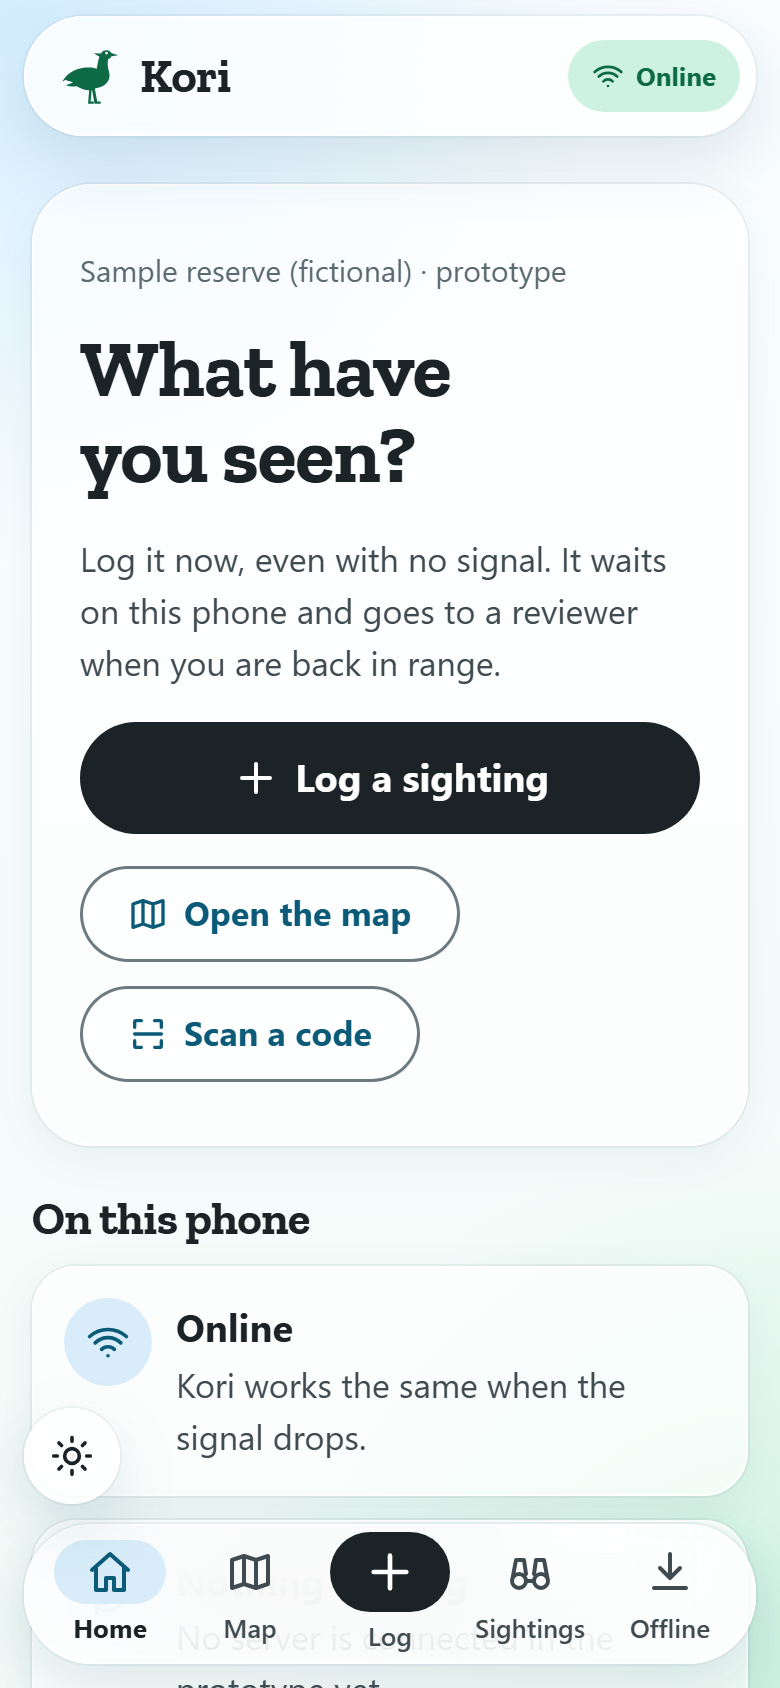
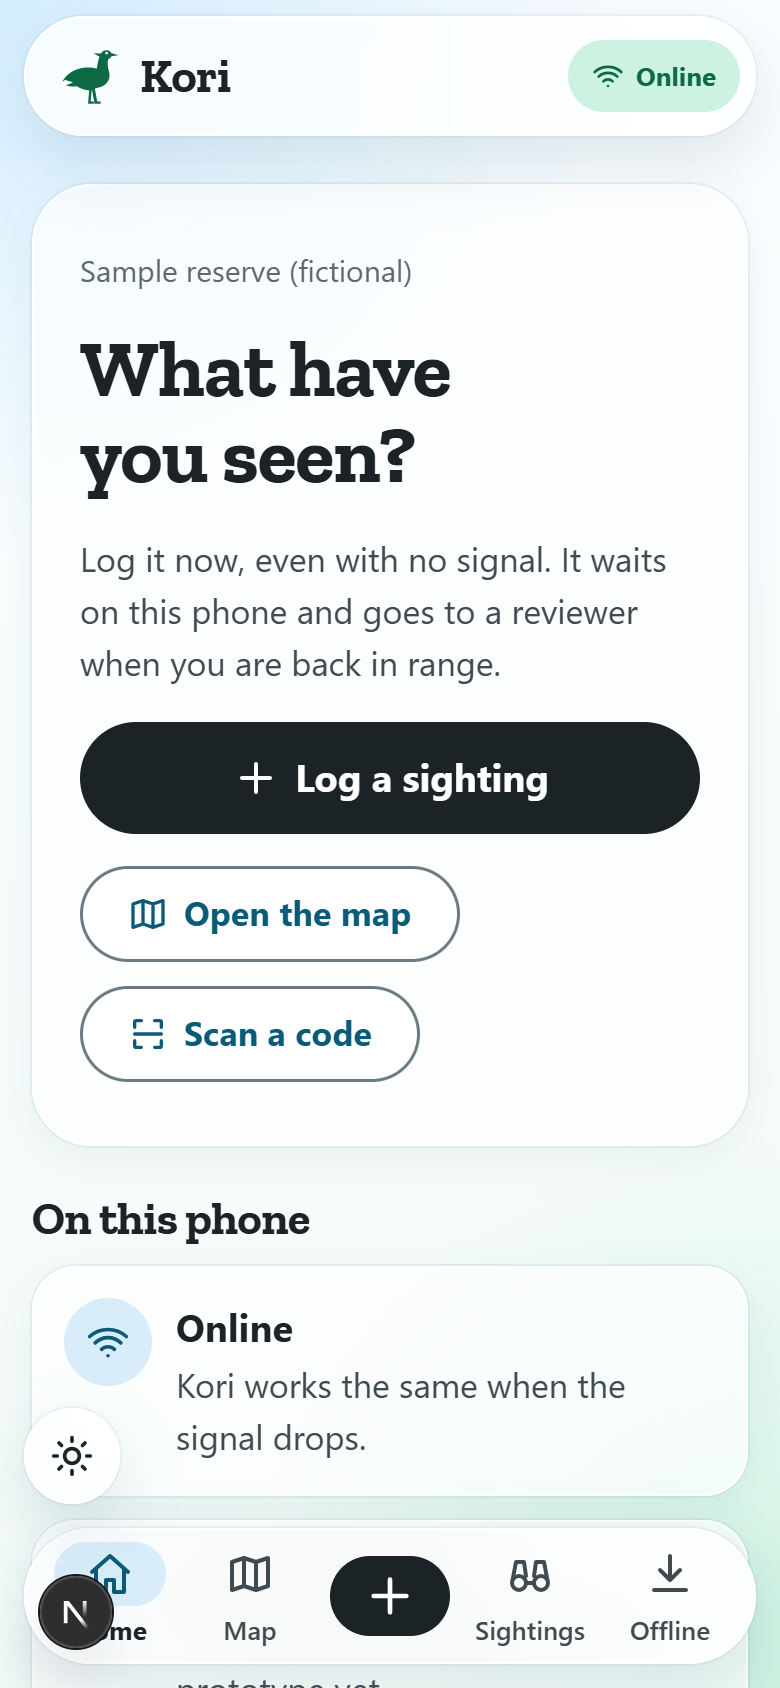
feat: make portfolio recruiter-first (#24)

diff --git a/src/data/projects.ts b/src/data/projects.ts
@@ -133,7 +133,7 @@ export const projects: Project[] = [
     story:
       'Kori began with two Botswana-specific constraints that ordinary map and social apps do not solve well: safari routes often lose mobile coverage, and publishing an animal’s exact live location can be unsafe. Named after the kori bustard, kgori in Setswana, it lets a visitor log a sighting on the phone, keep it there until a connection returns, and pass it to another phone with a QR code. Downloaded maps keep the basemap, position and routing available offline, while guidance follows mapped roads and tracks only. Every shared sighting is reviewed and delayed, normal species appear as a 1 km area, and sensitive species such as rhino and pangolin appear only as a 10 km area after 7 days and are never guided to.',
     evidence:
-      'Four web apps make up the front end: a phone-first field app, a landing site, a review console and API docs, written in Next.js and TypeScript. In the field app a sighting is saved in IndexedDB, photos are redrawn on the phone to strip hidden location data, and downloaded PMTiles packs are drawn locally with MapLibre. A private Savuti pack combines an OpenStreetMap vector basemap and routing graph with Sentinel-2 imagery; its satellite-first view, attribution, local storage, OSM-track routing and offline reload passed 16 of 16 automated checks. The published map preview uses real Sentinel-2 and OpenStreetMap context over Maun at the Okavango Delta gateway and contains no live wildlife locations. The private park pack and its screenshots remain off the web pending wildlife-authority guidance. The backend is a FastAPI and PostGIS service with Alembic migrations and scheduled lifecycle jobs. Authentication, object storage, Prometheus, Grafana, Tempo, OpenTelemetry, backups, recovery tooling, Docker Compose and GitHub Actions form the operating foundation. The backend is built and tested, but the apps do not call it yet.',
+      'Four web apps make up the front end: a phone-first field app, a landing site, a review console and API docs, written in Next.js and TypeScript. In the field app a sighting is saved in IndexedDB, photos are redrawn on the phone to strip hidden location data, and downloaded PMTiles packs are drawn locally with MapLibre. A private Savuti pack combines an OpenStreetMap vector basemap and routing graph with Sentinel-2 imagery; its satellite-first view, attribution, local storage, OSM-track routing and offline reload passed 16 of 16 automated checks. The private park pack and its screenshots remain off the web pending wildlife-authority guidance. The backend is a FastAPI and PostGIS service with Alembic migrations and scheduled lifecycle jobs. Authentication, object storage, Prometheus, Grafana, Tempo, OpenTelemetry, backups, recovery tooling, Docker Compose and GitHub Actions form the operating foundation. The backend is built and tested, but the apps do not call it yet.',
     stack: stackOf(koriStack),
     stackGroups: koriStack,
     tags: ['mobile'],
@@ -142,9 +142,10 @@ export const projects: Project[] = [
     frame: 'bare',
     theme: { from: '#0b3a52', to: '#146c2e', glow: '#9fe3c4' },
     shots: [
-      { file: 'map', alt: 'Kori map preview showing real Sentinel-2 imagery and OpenStreetMap labels over Maun at the Okavango Delta gateway, with a highlighted route, offline packs, track-based guidance and location privacy', caption: 'Maun and the Okavango Delta gateway: satellite imagery, OSM labels and track-based routing', w: 1400, h: 1041 },
-      { file: 'home', alt: 'The Kori field app home screen on a wide display, with shortcuts to log a sighting, open the map, scan a shared sighting and see what is stored on the phone', caption: 'Field app: offline status and the sighting workflow', w: 1000, h: 625 },
-      { file: 'log', alt: 'The Kori phone form for logging a sighting, beginning with a searchable grid of Botswana wildlife species', caption: 'Logging a sighting on the phone, saved locally first', w: 585, h: 1266 },
+      { file: 'flow', alt: 'Three iPhone frames showing Kori home, log-a-sighting and sightings-list screens', caption: 'The offline field flow: start, log, and review sightings', w: 1400, h: 1041 },
+      { file: 'home-phone', alt: 'Kori home screen in an iPhone frame, with offline status and actions to log, open the map or scan a code', caption: 'Home: the field workflow starts on the phone', w: 600, h: 1293 },
+      { file: 'log-phone', alt: 'Kori log-a-sighting screen in an iPhone frame with a searchable species list', caption: 'Log a sighting, saved locally first', w: 600, h: 1293 },
+      { file: 'sightings-phone', alt: 'Kori sightings screen in an iPhone frame showing reviewed sightings as areas rather than exact points', caption: 'Reviewed sightings are shown as areas, never exact points', w: 600, h: 1293 },
     ],
   },
   {
@@ -174,6 +175,7 @@ export const projects: Project[] = [
       { file: 'import', alt: 'Tagwise’s spreadsheet import, with the rows that have problems marked before anything is written', caption: 'Importing a spreadsheet, problems shown first (sample data)', w: 1420, h: 999 },
       { file: 'sites', alt: 'Tagwise’s sites page: six places on a map of Botswana, with a list beside it', caption: 'Sites on a map (sample data)', w: 1420, h: 999 },
       { file: 'phone', alt: 'Tagwise’s home page on a phone, in an iPhone frame', caption: 'The same app on a phone (sample workspace)', w: 600, h: 1293 },
+      { file: 'phone-register', alt: 'Tagwise’s asset register on a phone, in an iPhone frame', caption: 'The register on a phone (sample workspace)', w: 600, h: 1293 },
     ],
   },
   {
@@ -222,10 +224,10 @@ export const projects: Project[] = [
     theme: { from: '#06241c', to: '#0f7a55', glow: '#5eead4' },
     mark: 'CS',
     shots: [
-      { file: 'home', alt: 'The University CS Docs home page with course cards for data structures, discrete maths, functional programming and calculus', caption: 'Home', w: 1440, h: 900 },
-      { file: 'course', alt: 'The CSI247 Data Structures course overview with a study sequence', caption: 'A course overview', w: 1440, h: 900 },
-      { file: 'semester', alt: 'The Semester III overview listing core courses and an elective', caption: 'Semester overview', w: 1440, h: 900 },
-      { file: 'focus-timer', alt: 'The Pomodoro focus timer page', caption: 'Focus timer', w: 1440, h: 900 },
+      { file: 'functional-overview', alt: 'The CSI243 Functional Programming course overview with its chapter sequence and study tools', caption: 'CSI243 Functional Programming course overview', w: 1440, h: 900 },
+      { file: 'functional-thinking', alt: 'A Functional Thinking lesson with navigation, explanation and a Haskell code example', caption: 'Structured notes with worked Haskell examples', w: 1440, h: 900 },
+      { file: 'haskell-playground', alt: 'The browser-based Haskell playground with editable code and an output panel', caption: 'Haskell runs directly in the browser', w: 1440, h: 900 },
+      { file: 'functional-review', alt: 'The Functional Programming review page with flashcards and a chapter assessment', caption: 'Review with flashcards and assessment', w: 1440, h: 900 },
     ],
   },
 ];

diff --git a/src/scripts/desktop.ts b/src/scripts/desktop.ts
@@ -1,8 +1,8 @@
 import { projects } from '@/data/projects';
 import { initAppUi } from './appui';
 import { initDock } from './dock';
-import { initFinder, openProject } from './finder';
-import { isApple, isCompact, modKey } from './lib';
+import { initFinder } from './finder';
+import { isApple, modKey } from './lib';
 import { initMenus } from './menus';
 import { notify } from './notify';
 import { initQuickLook } from './quicklook';
@@ -10,50 +10,25 @@ import { initSpotlight } from './spotlight';
 import { initStatusBar } from './statusbar';
 import { initTerminal } from './terminal';
 import { initTheme } from './theme';
-import { getWindowRect, initWindows, MENUBAR_H, openApp } from './windows';
+import { initWindows, openApp } from './windows';
 
-/** Lay the first windows out to suit the screen: a pair on wide desktops, one everywhere else. */
+/** Start with the professional summary and CV so a recruiter does not need to search for context. */
 function openFirstWindows(): void {
-  const width = innerWidth;
-  const height = innerHeight;
-
-  if (isCompact()) {
-    openApp('finder');
-    return;
-  }
-
-  const iconColumn = 130;
-  const usable = width - iconColumn;
-  const winHeight = Math.max(380, Math.min(560, height - MENUBAR_H - 130));
-  const y = MENUBAR_H + Math.max(20, Math.round((height - MENUBAR_H - 96 - winHeight) / 2));
-
-  if (usable >= 1100) {
-    const contactsWidth = 350;
-    const gap = 22;
-    const finderWidth = Math.min(920, usable - contactsWidth - gap - 64);
-    const x = Math.round((usable - (contactsWidth + gap + finderWidth)) / 2) + 6;
-    // The About card sizes itself to its content; the gallery then matches its height.
-    openApp('contacts', { rect: { x, y, w: contactsWidth, h: winHeight } });
-    const cardHeight = getWindowRect('contacts')?.h ?? winHeight;
-    openApp('finder', { rect: { x: x + contactsWidth + gap, y, w: finderWidth, h: cardHeight } });
-  } else {
-    const finderWidth = Math.min(900, usable - 24);
-    openApp('finder', { rect: { x: Math.round((usable - finderWidth) / 2), y, w: finderWidth, h: winHeight } });
-  }
+  openApp('about');
 }
 
 function welcome(): void {
   const hint = document.createElement('span');
-  hint.append(`${projects.length} projects in the gallery. Click to explore, or press `);
+  hint.append(`CV, technical toolkit, and ${projects.length} selected projects. Press `);
   const key = document.createElement('kbd');
   key.textContent = isApple ? '⌘K' : `${modKey}K`.trim();
-  hint.append(key, ' to search.');
+  hint.append(key, ' to search the portfolio.');
   notify({
     title: 'Welcome',
     body: hint,
-    icon: 'finder',
-    timeout: 9000,
-    onClick: () => openProject(projects[0]?.slug ?? ''),
+    icon: 'contacts',
+    timeout: 7000,
+    onClick: () => openApp('about'),
   });
 }
 

diff --git a/src/data/site.ts b/src/data/site.ts
@@ -9,10 +9,10 @@ export const profile = {
   github: 'https://github.com/MooketsiMagwaza',
   githubHandle: 'MooketsiMagwaza',
   sourceRepo: 'https://github.com/MooketsiMagwaza/portfolio',
-  headline: 'I make complicated software feel simple.',
+  headline: 'Full-stack engineering across product, backend, data, and delivery.',
   intro:
-    'I’m Mooketsi. I turn messy, real-world problems into tools people can actually use—from the screen they tap to the systems working behind it.',
-  focus: ['Product thinking', 'Systems engineering', 'Operational clarity'],
+    'I build product interfaces, backend services, data systems, and deployment tooling, with recent work in offline geospatial software, inventory and expiry tracking, and Windows desktop applications.',
+  focus: ['Product systems', 'Backend engineering', 'Platform delivery'],
   invitation:
     'I’m always happy to talk about a thoughtful product, a stubborn systems problem, or work that genuinely helps people.',
 } as const;
@@ -56,11 +56,12 @@ export const principles: Principle[] = [
 
 /** The "Technical toolkit" from the GitHub profile README. */
 export const stackGroups: { label: string; items: string[] }[] = [
-  { label: 'Backend', items: ['Rust', 'Axum', 'Python', 'FastAPI', 'Go', 'Java', 'REST APIs'] },
-  { label: 'Web', items: ['TypeScript', 'React', 'Next.js', 'Vite', 'Accessible responsive UI'] },
+  { label: 'Languages', items: ['TypeScript', 'JavaScript', 'Rust', 'Python', 'SQL', 'Go', 'Java'] },
+  { label: 'Frontend', items: ['React', 'Next.js', 'Vite', 'Responsive UI', 'Accessibility', 'IndexedDB'] },
+  { label: 'Backend', items: ['Axum', 'FastAPI', 'REST APIs', 'Authentication', 'Background jobs'] },
   { label: 'Data', items: ['PostgreSQL', 'PostGIS', 'pgRouting', 'Redis', 'SQLAlchemy', 'sqlx', 'Alembic'] },
-  { label: 'Operations', items: ['Docker', 'nginx', 'GitHub Actions', 'Prometheus', 'Grafana', 'Tempo', 'OpenTelemetry'] },
-  { label: 'Native', items: ['Tauri 2', 'Rust', 'Windows APIs', 'WebView2'] },
+  { label: 'DevOps & observability', items: ['Docker', 'nginx', 'GitHub Actions', 'OpenTelemetry', 'Prometheus', 'Grafana', 'Tempo'] },
+  { label: 'Native & geospatial', items: ['Tauri 2', 'Windows APIs', 'WebView2', 'MapLibre', 'PMTiles'] },
 ];
 
 /** Where the desktop-in-a-browser idea comes from. */

diff --git a/src/data/apps.ts b/src/data/apps.ts
@@ -39,7 +39,7 @@ export const apps: App[] = [
     blurb: 'The principles behind the projects',
     icon: 'notes',
     keywords: ['approach', 'principles', 'process', 'philosophy'],
-    dock: true,
+    dock: false,
   },
   {
     id: 'terminal',
@@ -61,11 +61,11 @@ export const apps: App[] = [
   },
   {
     id: 'about',
-    name: 'System Information',
-    title: 'About This Mac',
-    blurb: 'Stack, specs, and credits',
+    name: 'Profile',
+    title: 'Profile and CV',
+    blurb: 'Experience, technical toolkit, and CV',
     icon: 'logo',
-    keywords: ['stack', 'skills', 'tech', 'credits', 'inspiration', 'specs'],
+    keywords: ['profile', 'cv', 'resume', 'stack', 'skills', 'experience', 'hire'],
     dock: false,
   },
 ];

diff --git a/src/styles/apps.css b/src/styles/apps.css
@@ -1289,6 +1289,19 @@
   color: var(--fg-2);
 }
 
+.about__summary {
+  margin: -2px 0 0;
+  color: var(--fg-2);
+  font-size: 14px;
+  line-height: 1.55;
+}
+
+.about__actions {
+  display: flex;
+  flex-wrap: wrap;
+  gap: 8px;
+}
+
 .specs {
   display: grid;
   gap: 8px;

diff --git a/tools/cv/generate.py b/tools/cv/generate.py
@@ -41,7 +41,8 @@ S = {
     "right": ParagraphStyle("Right", parent=BASE["BodyText"], fontName=FONT, fontSize=8.2, leading=10.5, alignment=TA_RIGHT, textColor=INK),
     "meta": ParagraphStyle("Meta", parent=BASE["BodyText"], fontName=ITALIC, fontSize=8, leading=9.4, textColor=MUTED, spaceAfter=1.4),
     "bullet": ParagraphStyle("Bullet", parent=BASE["BodyText"], fontName=FONT, fontSize=7.95, leading=9.65, leftIndent=10, firstLineIndent=-7, textColor=INK, spaceAfter=0.8),
-    "skills": ParagraphStyle("Skills", parent=BASE["BodyText"], fontName=FONT, fontSize=7.9, leading=9.6, textColor=INK, spaceAfter=1),
+    "skills_label": ParagraphStyle("SkillsLabel", parent=BASE["BodyText"], fontName=BOLD, fontSize=7.6, leading=9.2, textColor=INK),
+    "skills_value": ParagraphStyle("SkillsValue", parent=BASE["BodyText"], fontName=FONT, fontSize=7.6, leading=9.2, textColor=INK),
 }
 
 
@@ -162,13 +163,35 @@ def build(output: Path) -> None:
     )
 
     story.extend(section("Technical Skills"))
-    for label, value in [
+    skill_rows = [
         ("Languages", "TypeScript, JavaScript, Rust, Python, SQL, Go, Java"),
-        ("Frontend & Product", "React, Next.js, Vite, responsive UI, accessibility, MapLibre, IndexedDB, QR/barcode workflows, spreadsheet import/export"),
-        ("Backend & Data", "Axum, FastAPI, REST APIs, PostgreSQL, PostGIS, Redis, SQLAlchemy, sqlx, Alembic, spatial privacy, concurrency and idempotency"),
-        ("Platform & Delivery", "Docker, nginx, GitHub Actions, OpenTelemetry, Prometheus, Grafana, Tempo, Trivy, backup and recovery documentation"),
-    ]:
-        story.append(Paragraph(f"<b>{label}:</b> {value}", S["skills"]))
+        ("Frontend", "React, Next.js, Vite, responsive UI, accessibility, IndexedDB"),
+        ("Backend", "Axum, FastAPI, REST APIs, authentication, background jobs"),
+        ("Data", "PostgreSQL, PostGIS, Redis, SQLAlchemy, sqlx, Alembic"),
+        ("DevOps & Observability", "Docker, nginx, GitHub Actions, OpenTelemetry, Prometheus, Grafana, Tempo, Trivy"),
+        ("Native & Geospatial", "Tauri 2, Windows APIs, WebView2, MapLibre, PMTiles"),
+    ]
+    skills_table = Table(
+        [[Paragraph(label, S["skills_label"]), Paragraph(value, S["skills_value"])] for label, value in skill_rows],
+        colWidths=[39 * mm, 135 * mm],
+        hAlign="LEFT",
+    )
+    skills_table.setStyle(
+        TableStyle(
+            [
+                ("VALIGN", (0, 0), (-1, -1), "TOP"),
+                ("BACKGROUND", (0, 0), (0, -1), colors.HexColor("#F1F1F1")),
+                ("LINEBELOW", (0, 0), (-1, -2), 0.25, colors.HexColor("#D7D7D7")),
+                ("BOX", (0, 0), (-1, -1), 0.35, colors.HexColor("#BDBDBD")),
+                ("INNERGRID", (0, 0), (-1, -1), 0.25, colors.HexColor("#D7D7D7")),
+                ("LEFTPADDING", (0, 0), (-1, -1), 5),
+                ("RIGHTPADDING", (0, 0), (-1, -1), 5),
+                ("TOPPADDING", (0, 0), (-1, -1), 2.5),
+                ("BOTTOMPADDING", (0, 0), (-1, -1), 2.5),
+            ]
+        )
+    )
+    story.append(skills_table)
 
     doc.build(story, onFirstPage=footer, onLaterPages=footer)
 

diff --git a/README.md b/README.md
@@ -12,10 +12,10 @@ Live at <https://mooketsimagwaza.github.io/portfolio/>.
 | --- | --- |
 | **Finder** | The projects, as a gallery. Switch between Gallery, Icons, and List views; filter by tag; search; press **Space** for Quick Look. A project with screenshots can be paged through (buttons, or ↑/↓), and Quick Look also shows a grid of every screenshot, where a thumbnail opens that one; a project without screenshots shows a typographic cover. |
 | **Contacts** | About me, with quick actions. |
-| **Notes** | How I work: the principles, each tied to a project that shows it. |
+| **Notes** | A tucked-away set of project principles, available through search rather than the Dock. |
 | **Terminal** | `help`, `ls`, `cat <project>`, `open <project>`, `stack`, `neofetch`, and a few surprises. Tab completes, ↑ recalls history. |
 | **Mail** | A compose window. Sending hands the draft to your own mail app; nothing is sent from the page. |
-| **About This Mac** | Overview, technical toolkit, and credits. |
+| **Profile and CV** | The recruiter-first opening window: overview, CV actions, technical toolkit, and credits. |
 | **Spotlight** | <kbd>Ctrl</kbd>/<kbd>⌘</kbd> + <kbd>K</kbd> (or `/`) searches projects, apps, and actions. |
 | **Control Center** | Light/dark appearance and a reduce-motion switch. |
 
@@ -92,9 +92,9 @@ thumbnail:
 | Project | Images | Where they come from |
 | --- | --- | --- |
 | Opaline | Four full-screen captures | Synthetic-data captures maintained in Opaline's own `docs/images/` folder |
-| Kori | A Maun/Okavango satellite-map visual and two field-app screens | The map visual uses real satellite and OpenStreetMap context without live wildlife locations; the field screens come from the running app |
-| Tagwise | Five Mac-window shots and one iPhone shot | Captures of the browser prototype's sample workspace, copied from its own screenshots (raw screens in `public/images/tagwise/`) |
-| University CS Docs | Four plain screenshots | The site draws the browser window around them |
+| Kori | Three phone screens in iPhone frames, plus individual phone captures | Current captures of the home, log-a-sighting and sightings flow from the running field app |
+| Tagwise | Five Mac-window shots and two iPhone shots | Captures of the browser app's sample workspace, copied from its own screenshots (raw screens in `public/images/tagwise/`) |
+| University CS Docs | Four CSI243 Functional Programming screenshots | The site draws the browser window around the course overview, lesson, Haskell playground and review page |
 
 The baked images are WebP, with transparency, in `public/images/projects/<slug>/`.
 The first one of each project also has a `<file>-sm.webp` thumbnail, which is its
